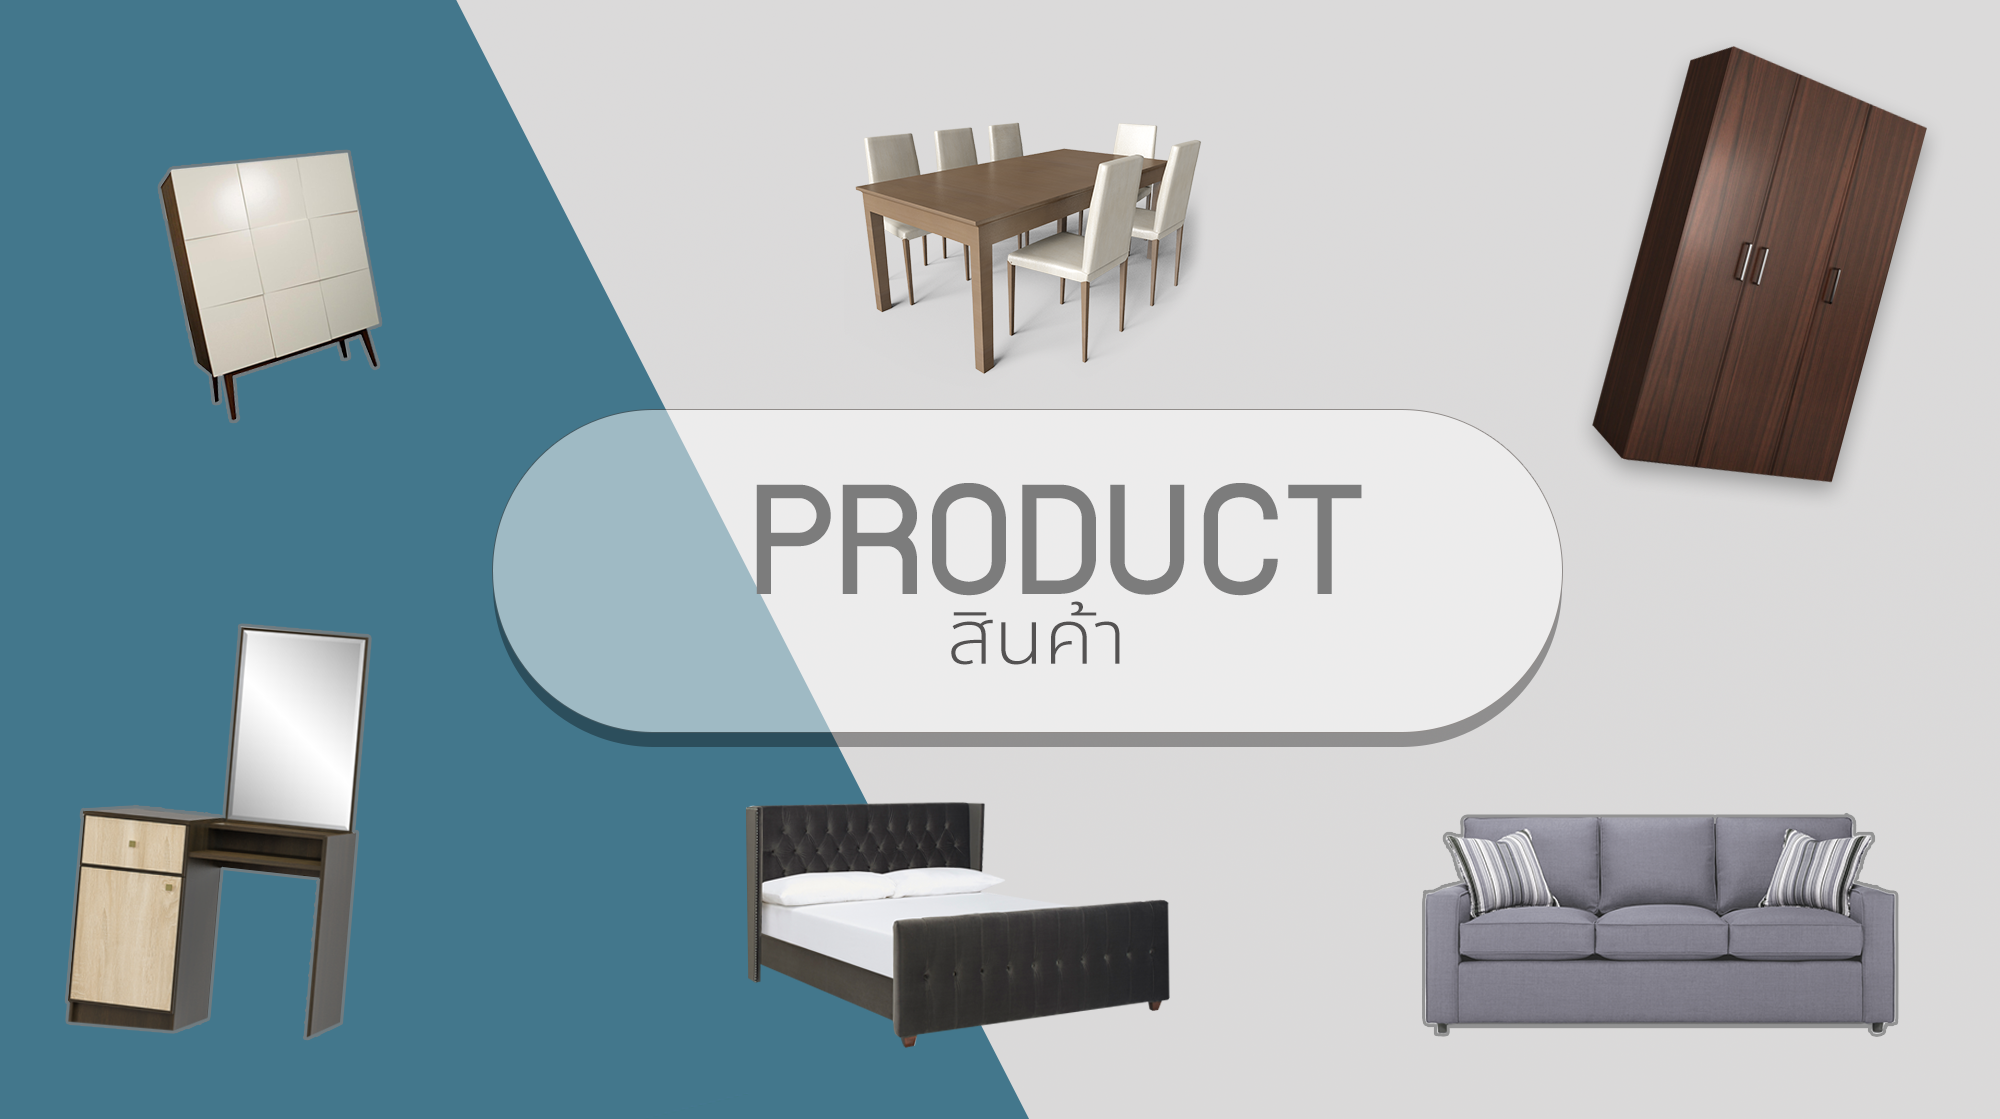
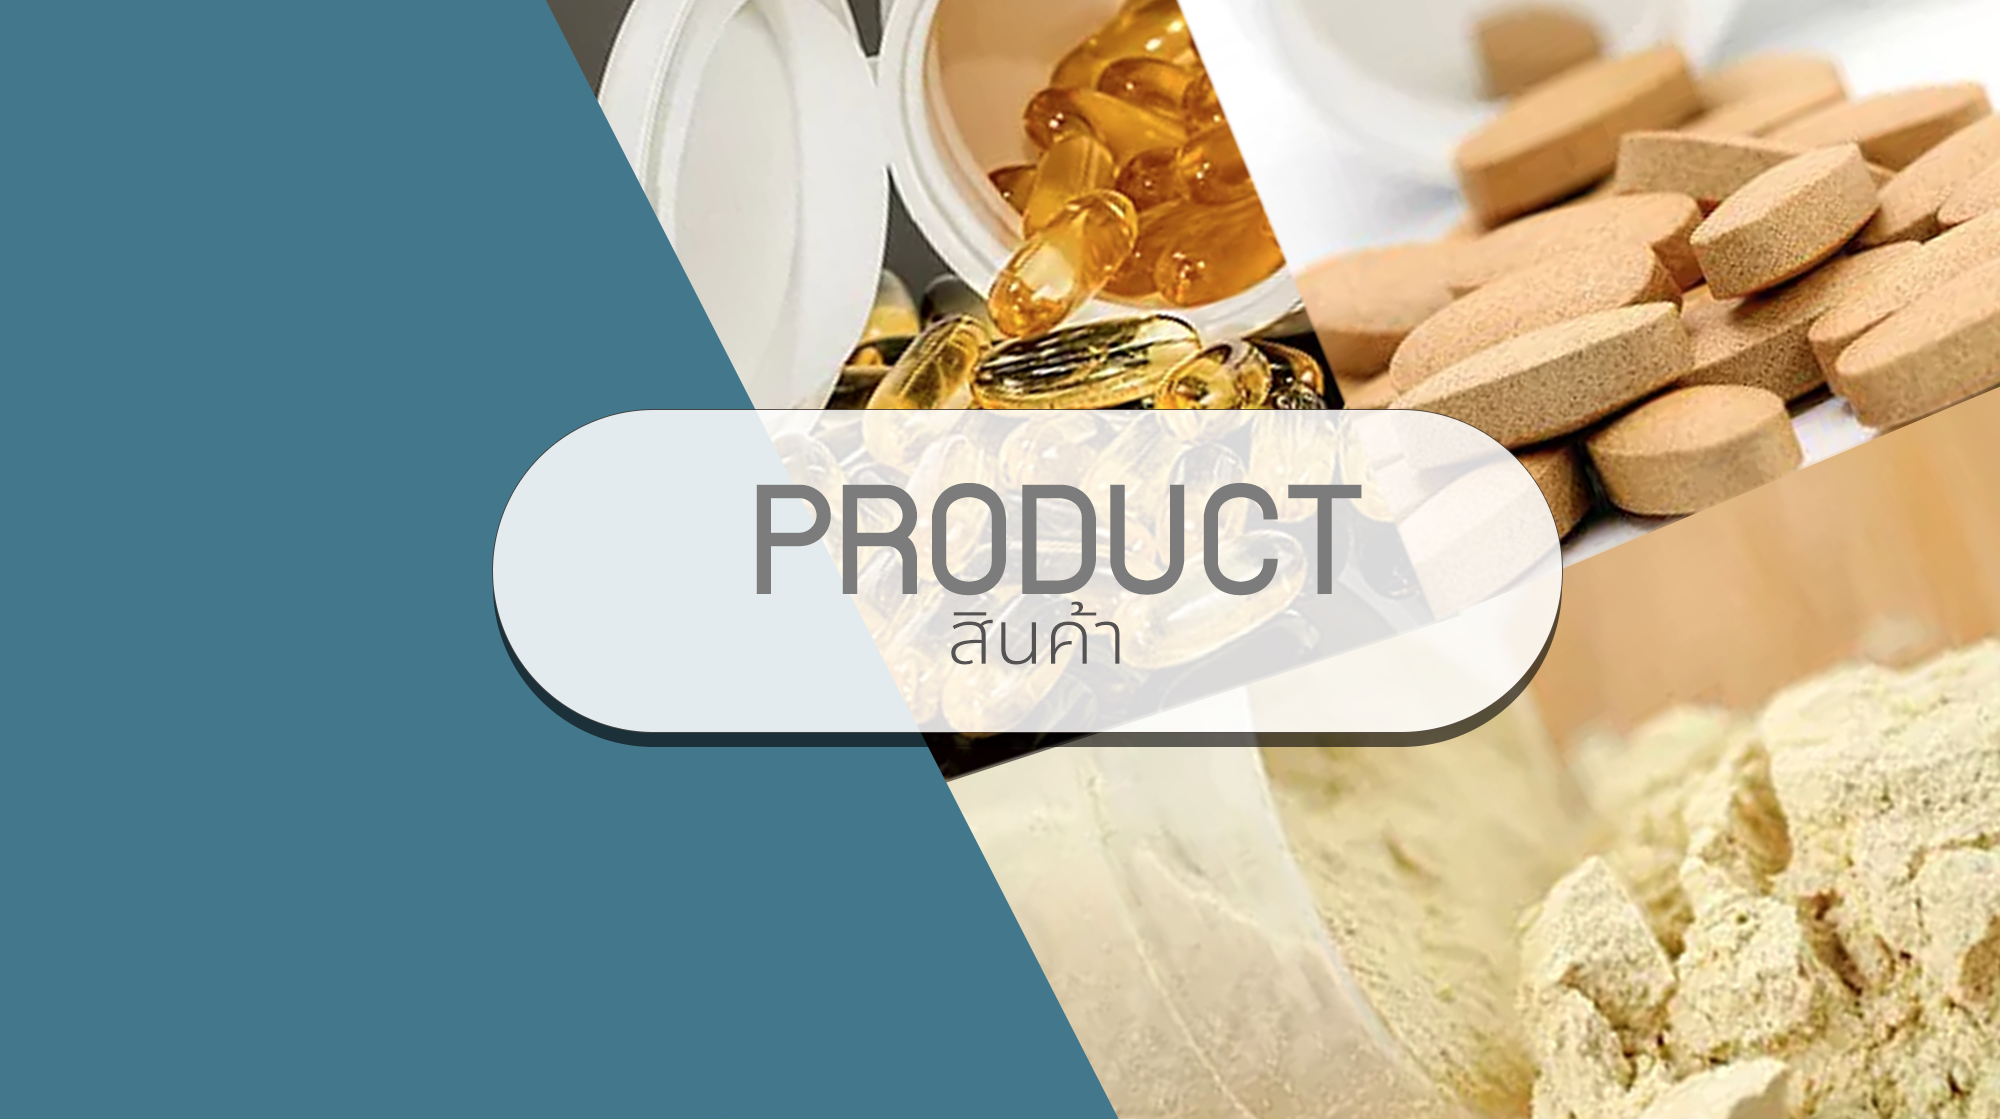
commit

diff --git a/src/services/saleorderservice.ts b/src/services/saleorderservice.ts
@@ -208,8 +208,8 @@ export class SaleOrderService {
     , oDeliveryCountry, oDeliveryPostCode, oDueDate, oMaker, oPaymentTerm, oSalesCode, oSalesName, oBackorder, oReference, oOnpallet, oDO, oStandCost
     , oDepartment, oLoadDate, oAmount , oNetAmount) {
       
-      let parameters='oClient='+'7LINE'+'&oBook='+oBook+'&oBranch='+oBranch+'&oOrderNo='+oOrderNo
-    +'&oOrderType='+oOrderType+'&oCustomer='+'7LINE'+'&oCustomerName='+oCustomerName+'&oOrderDate='+oOrderDate
+      let parameters='oClient='+oClient+'&oBook='+oBook+'&oBranch='+oBranch+'&oOrderNo='+oOrderNo
+    +'&oOrderType='+oOrderType+'&oCustomer='+oCustomer+'&oCustomerName='+oCustomerName+'&oOrderDate='+oOrderDate
     +'&oVat='+oVat+'&oDiscountType='+oDiscountType+'&oDiscountRate='+oDiscountRate+'&oDiscountType2='+oDiscountType2
     +'&oDiscountRate2='+oDiscountRate2+'&oDiscountType3='+oDiscountType3+'&oDiscountRate3='+oDiscountRate3+'&oTotalPrice='+oTotalPrice
     +'&oDiscountedPrice='+oDiscountedPrice+'&oNetPrice='+oNetPrice+'&oPoNo='+oPoNo+'&oEtd='+oEtd+'&oIncludeVat='+oIncludeVat

diff --git a/src/pages/sales/salesmenu/salesmenu.ts b/src/pages/sales/salesmenu/salesmenu.ts
@@ -25,6 +25,7 @@ export class SaleMenuPage{
   private lineChart: Chart;
   oClient:string = "7LINE";
   select:any;
+  sumAmount:number;
   //test:string ="";
   oUsername:string = "";
   oUserGroup:string = "";
@@ -91,7 +92,7 @@ export class SaleMenuPage{
       this.dataInvoiceGraph = res;
 
       if(this.dataInvoiceGraph.length <= 0 ){
-            this.sum = "0.00"
+            this.sumAmount = 0.00;
             
       }else{
       console.log(this.dataInvoiceGraph);   
@@ -160,7 +161,7 @@ export class SaleMenuPage{
         index += parseInt(array);
         this.sum = index.toFixed(2);       
         } 
-     
+     this.sumAmount = this.sum;
       //console.log(this.sum);
 
       this.lineChart  = new Chart(this.lineCanvas.nativeElement, {

diff --git a/src/pages/login/login.html b/src/pages/login/login.html
@@ -1,7 +1,7 @@
 <ion-header>
   <ion-navbar color="primary">
     <ion-title>
-      SEVEN-LINE FURNITURE GROUP CO.,LTD
+      I-NUTRA
     </ion-title>
   </ion-navbar>
 </ion-header>
@@ -20,7 +20,7 @@
           </h1></div>
       </ion-col> -->
       <ion-col>
-        <img src="./assets/imgs/pic 7line_logo.png">
+        <img src="./assets/imgs/LOGO.png">
       </ion-col>
       <!-- <ion-col>
         <img src="../../assets/imgs/Logo Green Timberland.png">
@@ -51,5 +51,5 @@
   </div>
 </ion-content>
 <ion-footer>
-  <ion-label class="textcenter">Version 1.0.3</ion-label>
+  <ion-label class="textcenter">Version 1.0.0</ion-label>
 </ion-footer>

diff --git a/src/pages/login/login.ts b/src/pages/login/login.ts
@@ -20,8 +20,8 @@ export class LoginPage {
   data_logins:any;
   //oUsername:string = 'SIMILAN';
   //oPassword:string = 'ROGER3000';
-  oUsername:string = '7LINE';
-  oPassword:string = '7LINE'; 
+  oUsername:string = '';
+  oPassword:string = ''; 
 
   constructor(public navCtrl: NavController, private utility: Utility, private storage: Storage, private loginServ: LoginService) {
 

diff --git a/src/pages/sales/salesmenu/salesmenu.html b/src/pages/sales/salesmenu/salesmenu.html
@@ -19,7 +19,7 @@
           <ion-icon class="primary" ios="logo-bitcoin" md="logo-bitcoin" style="font-size: 40px;"></ion-icon>             
         </ion-col>
         <ion-col>
-          <p class="primary" style="font-size: 30px;" >{{sum}}+</p>
+          <p class="primary" style="font-size: 30px;" >{{sumAmount | number:0}}+</p>
           
         </ion-col>
         

diff --git a/src/pages/login/login.scss b/src/pages/login/login.scss
@@ -9,14 +9,17 @@ page-login {
         margin: 5%;
     }
     .listdivlogin{
-        padding-top: 40%;
+        padding-top: 15%;
     }
     .item.item-input {
         background-color: transparent;
     }
 
     img {
-        max-width: 100%;
+     padding-top: 10%;
+     max-width: 70%;
+     max-height: 100%;
+     margin-left: 17%;
     }
 
     .main{

diff --git a/src/pages/home/home.html b/src/pages/home/home.html
@@ -1,7 +1,7 @@
 <ion-header>
   <ion-navbar color="primary">
     <ion-title>
-      SEVEN-LINE FURNITURE GROUP CO.,LTD
+      I_NUTRA
     </ion-title>
   </ion-navbar>
 </ion-header>
